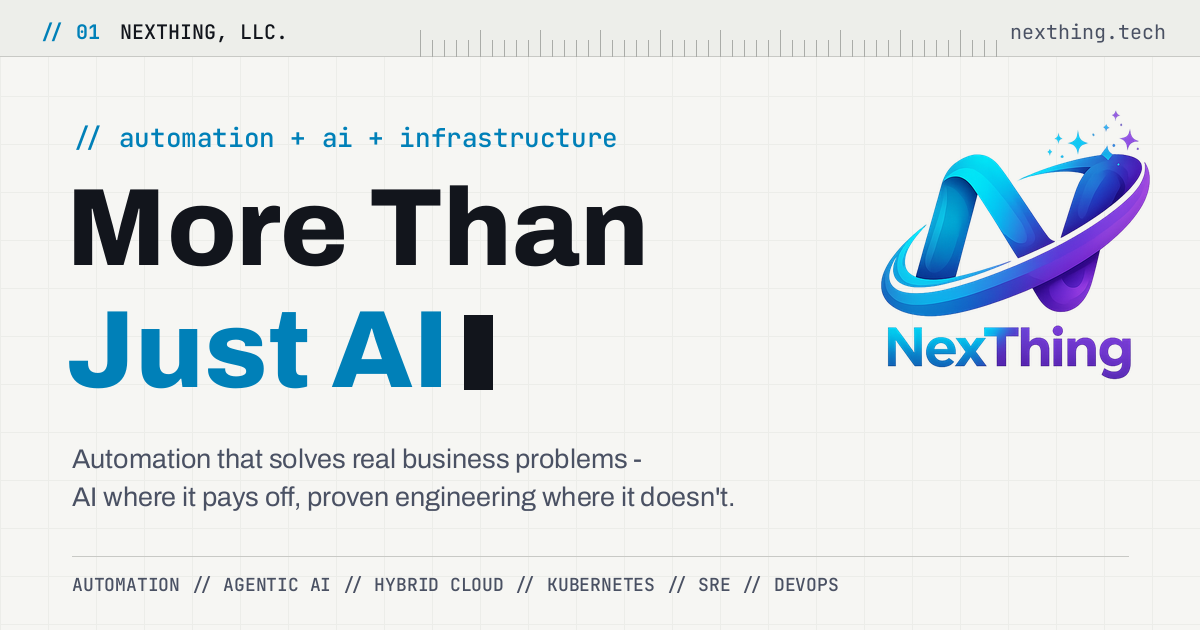
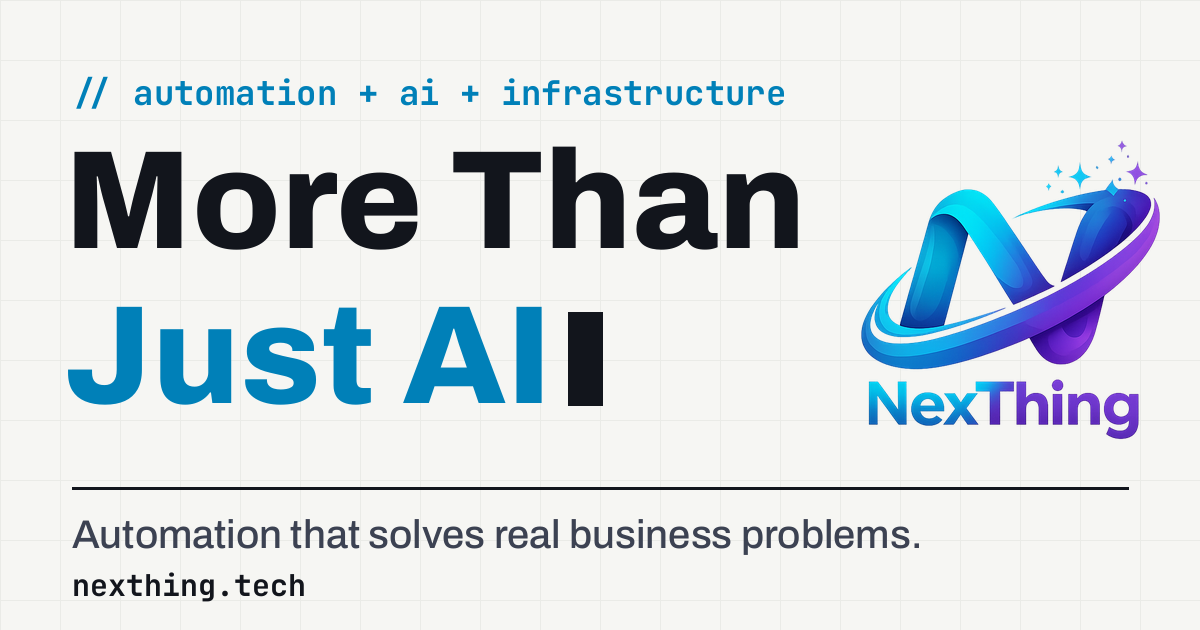
Simplify social share image for legibility at feed size
Larger headline, fewer elements, no small mono text. Version the
og:image URL so LinkedIn and other caches fetch the new image.

diff --git a/index.html b/index.html
@@ -14,7 +14,7 @@
   <meta property="og:url" content="https://nexthing.tech/" />
   <meta property="og:title" content="NexThing, LLC. | More Than Just AI" />
   <meta property="og:description" content="Automation that solves real business problems - AI where it pays off, proven engineering where it doesn't. Founder-led consulting in automation, agentic AI, and infrastructure." />
-  <meta property="og:image" content="https://nexthing.tech/og-image.png" />
+  <meta property="og:image" content="https://nexthing.tech/og-image.png?v=2" />
   <meta property="og:image:width" content="1200" />
   <meta property="og:image:height" content="630" />
   <meta property="og:image:alt" content="NexThing - More Than Just AI. Automation, agentic AI, and infrastructure consulting." />
